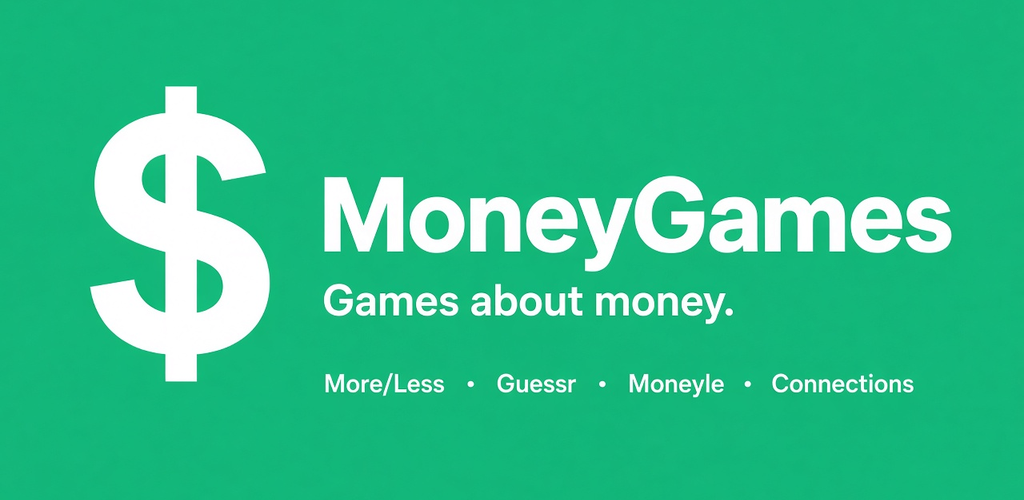
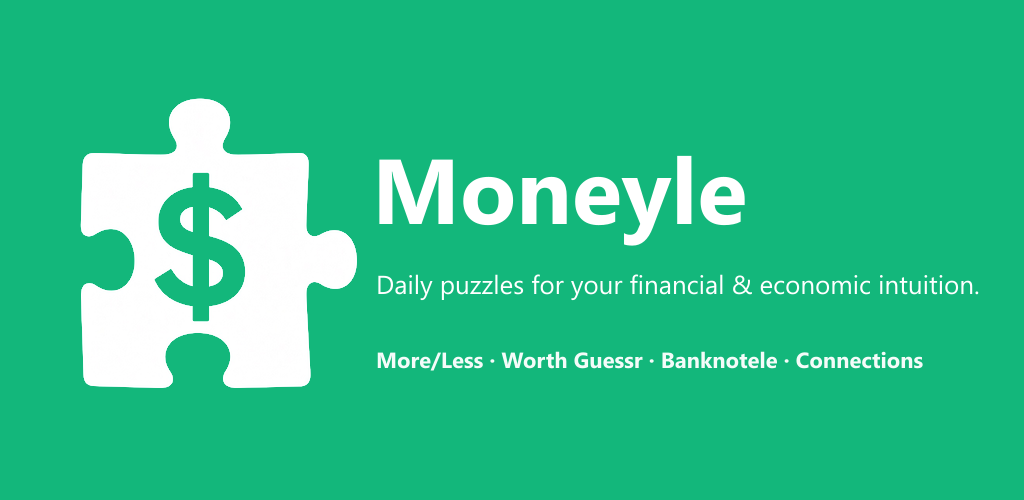
Tighten Worth Guessr scoring and finish the Moneyle rename across the app, legal pages, and Play feature graphic.

Changed region(s): [[0.0625, 0.15, 0.9688, 0.81]]

diff --git a/src/pages/Scoring.tsx b/src/pages/Scoring.tsx
@@ -7,6 +7,7 @@ import {
   GUESSR_EXACT_PCT,
   GUESSR_MAX,
   GUESSR_NEAR_PCT,
+  GUESSR_TIGHT_PCT,
   GUESSR_ROUND_MAX,
   MONEYLE_BONUS_MAX,
   MONEYLE_MAX,
@@ -20,7 +21,7 @@ export default function Scoring() {
     <InfoPage
       title="Scoring rules"
       description="How MoneyGames scores each daily run — More/Less, Worth Guessr, Banknotele, and Connections."
-      updated="September 6, 2026"
+      updated="November 7, 2026"
     >
       <p>
         Each game has its own score. When you finish a run, the results screen shows{" "}
@@ -89,12 +90,16 @@ export default function Scoring() {
               <td>{GUESSR_ROUND_MAX}</td>
             </tr>
             <tr>
-              <td>Within {GUESSR_CLOSE_PCT}% of the real total</td>
+              <td>Within {GUESSR_TIGHT_PCT}% of the real total</td>
               <td>1.5</td>
             </tr>
             <tr>
-              <td>Within {GUESSR_NEAR_PCT}% of the real total</td>
+              <td>Within {GUESSR_CLOSE_PCT}% of the real total</td>
               <td>1</td>
+            </tr>
+            <tr>
+              <td>Within {GUESSR_NEAR_PCT}% of the real total</td>
+              <td>0.5</td>
             </tr>
             <tr>
               <td>More than {GUESSR_NEAR_PCT}% away</td>
@@ -108,11 +113,12 @@ export default function Scoring() {
         </table>
       </div>
       <p>
-        “Within {GUESSR_CLOSE_PCT}%” means the absolute error is at most{" "}
+        “Within {GUESSR_TIGHT_PCT}%” means the absolute error is at most{" "}
+        {GUESSR_TIGHT_PCT}%, “within {GUESSR_CLOSE_PCT}%” means at most{" "}
         {GUESSR_CLOSE_PCT}%, and “within {GUESSR_NEAR_PCT}%” means at most{" "}
-        {GUESSR_NEAR_PCT}%. If the pile is $100, a guess from $90 to $110 scores
-        1.5, and from $80 to $120 scores 1. $100.00 scores {GUESSR_ROUND_MAX}. Over
-        or under is treated the same.
+        {GUESSR_NEAR_PCT}%. If the pile is $100, a guess from $95 to $105 scores
+        1.5, from $90 to $110 scores 1, and from $80 to $120 scores 0.5. $100.00
+        scores {GUESSR_ROUND_MAX}. Over or under is treated the same.
       </p>
 
       <h2>

diff --git a/src/pages/Terms.tsx b/src/pages/Terms.tsx
@@ -6,18 +6,19 @@ export default function Terms() {
   return (
     <InfoPage
       title="Terms of Service"
+      siteName="Moneyle"
       description="Terms of Service for moneyle.app — free browser games about money."
       updated="November 4, 2026"
     >
       <p>
-        These terms govern your use of MoneyGames at moneyle.app and the MoneyGames
+        These terms govern your use of Moneyle at moneyle.app and the Moneyle
         Android app (together, the “service”). By using the service, you agree to them. If
         you do not agree, do not use it.
       </p>
 
       <h2>The service</h2>
       <p>
-        MoneyGames offers free, recreational browser games about money, wealth, and
+        Moneyle offers free, recreational browser games about money, wealth, and
         currencies. Today’s puzzles are free without an account. Register with Google to
         unlock the archive of past daily puzzles and sync your progress across devices. We
         may add, change, or remove games or features at any time.
@@ -36,7 +37,7 @@ export default function Terms() {
       <p>
         Registration is optional and currently only via Google. You are responsible for the
         Google account you use. We may suspend an account that is used to abuse the service.
-        You can delete your MoneyGames account at any time from{" "}
+        You can delete your Moneyle account at any time from{" "}
         <Link to="/delete-account">Delete your account</Link>. That removes the record we
         stored and synced progress; it does not delete your Google account.
       </p>
@@ -52,7 +53,7 @@ export default function Terms() {
 
       <h2>Intellectual property</h2>
       <p>
-        The MoneyGames name, layout, and original game design are provided by the site
+        The Moneyle name, layout, and original game design are provided by the site
         operator. You may play the games and share your results. You may not copy the site
         as a competing product, or reuse our original assets, without permission.
       </p>

diff --git a/index.html b/index.html
@@ -7,14 +7,14 @@
     <title>Moneyle — Daily Financial &amp; Economic Puzzles</title>
     <meta
       name="description"
-      content="Free browser games about money. Play More/Less, Worth Guessr, Banknotele, and Connections — test your intuition for wealth, cash, and currencies."
+      content="Daily puzzle games about money. Play More/Less, Worth Guessr, Banknotele, and Connections — test your intuition for wealth, cash, and currencies."
     />
     <link rel="canonical" href="https://moneyle.app/" />
     <link rel="sitemap" type="application/xml" href="https://moneyle.app/sitemap.xml" />
     <meta property="og:title" content="Moneyle — Daily Financial &amp; Economic Puzzles" />
     <meta
       property="og:description"
-      content="Free browser games about money. Play More/Less, Worth Guessr, Banknotele, and Connections — test your intuition for wealth, cash, and currencies."
+      content="Daily puzzle games about money. Play More/Less, Worth Guessr, Banknotele, and Connections — test your intuition for wealth, cash, and currencies."
     />
     <meta property="og:url" content="https://moneyle.app/" />
     <meta property="og:type" content="website" />
@@ -29,7 +29,7 @@
     <meta name="twitter:image:alt" content="Moneyle — Daily Financial &amp; Economic Puzzles" />
     <meta
       name="twitter:description"
-      content="Free browser games about money. Play More/Less, Worth Guessr, Banknotele, and Connections — test your intuition for wealth, cash, and currencies."
+      content="Daily puzzle games about money. Play More/Less, Worth Guessr, Banknotele, and Connections — test your intuition for wealth, cash, and currencies."
     />
     <link rel="icon" href="/favicon.png" type="image/png" sizes="64x64" />
     <link rel="icon" href="/icon.png" type="image/png" sizes="192x192" />

diff --git a/src/pages/Privacy.tsx b/src/pages/Privacy.tsx
@@ -6,11 +6,12 @@ export default function Privacy() {
   return (
     <InfoPage
       title="Privacy Policy"
-      description="How MoneyGames handles information — optional Google accounts, no ads, no sale of personal data."
+      siteName="Moneyle"
+      description="How Moneyle handles information — optional Google accounts, no ads, no sale of personal data."
       updated="November 4, 2026"
     >
       <p>
-        MoneyGames (“we”) runs free games at moneyle.app. This policy explains what
+        Moneyle (“we”) runs free games at moneyle.app. This policy explains what
         information is involved when you play. We do not sell personal data and we do not
         run advertising.
       </p>
@@ -117,7 +118,7 @@ export default function Privacy() {
 
       <h2>Delete your account</h2>
       <p>
-        You can delete your MoneyGames account at any time from{" "}
+        You can delete your Moneyle account at any time from{" "}
         <Link to="/me">Me</Link> or the{" "}
         <Link to="/delete-account">Delete your account</Link> page, or in the Android app
         under Me. That removes the Google sign-in record we stored and any synced daily

diff --git a/mobile/app/guessr.tsx b/mobile/app/guessr.tsx
@@ -20,7 +20,7 @@ const ROUNDS = 5;
 const MEMORIZE_MS = 5000;
 const STACK_TILT = [-5, -2, 3, 6, -4, 2, 5, -3];
 const HELP =
-  "A pile of bills and coins appears for 5 seconds. Then type the total. Five piles: exact is 2 points, within 10% is 1.5, within 20% is 1. Same puzzle as the website, every Denver day.";
+  "A pile of bills and coins appears for 5 seconds. Then type the total. Five piles: exact is 2 points, within 5% is 1.5, within 10% is 1, within 20% is 0.5. Same puzzle as the website, every Denver day.";
 
 type Phase = "memorize" | "guess" | "reveal";
 
@@ -406,7 +406,7 @@ export default function GuessrScreen() {
         <ScrollView contentContainerStyle={styles.scroll} showsVerticalScrollIndicator={false}>
           <ResultBlock
             score={formatScore(run.score, run.max)}
-            detail={`Exact is 2 pts, within 10% is 1.5, within 20% is 1. Average error ${avgAbs.toFixed(1)}%.`}
+            detail={`Exact is 2 pts, within 5% is 1.5, within 10% is 1, within 20% is 0.5. Average error ${avgAbs.toFixed(1)}%.`}
             current="guessr"
             archiveDate={puzzleDate}
             onShare={() => void Share.share({ message: shareText })}

diff --git a/src/lib/score.ts b/src/lib/score.ts
@@ -3,6 +3,7 @@ export const GUESSR_ROUNDS = 5;
 export const GUESSR_ROUND_MAX = 2;
 export const GUESSR_MAX = GUESSR_ROUNDS * GUESSR_ROUND_MAX;
 export const GUESSR_EXACT_PCT = 0.1;
+export const GUESSR_TIGHT_PCT = 5;
 export const GUESSR_CLOSE_PCT = 10;
 export const GUESSR_NEAR_PCT = 20;
 export const MONEYLE_NOTE_MAX = 10;
@@ -17,13 +18,14 @@ export function morelessScore(correctCount: number, total = MORELESS_MAX): { sco
   return { score: correctCount, max: total };
 }
 
-/** Exact (or off by less than 0.1%) is 2. Within 10% is 1.5. Within 20% is 1. */
+/** Exact (or off by less than 0.1%) is 2. Within 5% is 1.5. Within 10% is 1. Within 20% is 0.5. */
 export function guessrRoundPoints(pct: number, guessCents?: number, actualCents?: number): number {
   if (guessCents != null && actualCents != null && guessCents === actualCents) return GUESSR_ROUND_MAX;
   const abs = Math.abs(pct);
   if (abs < GUESSR_EXACT_PCT) return GUESSR_ROUND_MAX;
-  if (abs <= GUESSR_CLOSE_PCT) return 1.5;
-  if (abs <= GUESSR_NEAR_PCT) return 1;
+  if (abs <= GUESSR_TIGHT_PCT) return 1.5;
+  if (abs <= GUESSR_CLOSE_PCT) return 1;
+  if (abs <= GUESSR_NEAR_PCT) return 0.5;
   return 0;
 }
 

diff --git a/src/lib/articles.ts b/src/lib/articles.ts
@@ -185,7 +185,7 @@ export const ARTICLES: Article[] = [
         paragraphs: [
           "Each day, Worth Guessr picks one currency from the 34 we have photographed — US dollars, Japanese yen, euros, pounds, pesos, dong, and more — and builds five piles from it. Everyone plays the same five piles until midnight Denver time.",
           "The piles get harder as you go. Round one is three banknotes of a single kind, drawn from the cheaper end of that currency’s notes. By round five the table holds eight notes of up to three kinds and eleven coins of up to four kinds: nineteen pieces of cash, five seconds.",
-          "An exact answer is worth 2 points. Within 10% of the true total is worth 1.5, and within 20% is worth 1. Five rounds, ten points at most. You do not have to name every coin — you need a good number.",
+          "An exact answer is worth 2 points. Within 5% of the true total is worth 1.5, within 10% is worth 1, and within 20% is worth 0.5. Five rounds, ten points at most. You do not have to name every coin — you need a good number.",
         ],
       },
       {

diff --git a/src/pages/Changelog.tsx b/src/pages/Changelog.tsx
@@ -2,6 +2,13 @@ import InfoPage from "../components/InfoPage";
 
 const entries = [
   {
+    date: "November 7, 2026",
+    iso: "2026-11-07",
+    items: [
+      "Worth Guessr now scores 1.5 points within 5% of the real total, 1 point within 10%, and 0.5 within 20%. An exact guess still scores 2.",
+    ],
+  },
+  {
     date: "November 2, 2026",
     iso: "2026-11-02",
     items: [
@@ -87,7 +94,7 @@ const entries = [
     iso: "2026-08-23",
     items: [
       "Banknotele How to play now walks through a US $100 example with euro, yen, yuan, and dollar guesses, and explains the rate numbers and closeness percent.",
-      "Footer and About now link to Moneyle on TikTok, X, and YouTube.",
+      "Footer and About now link to Moneyle on X and YouTube.",
       "New More/Less days no longer pair two items that show the same compact figure, such as two movies both listed as $1.24B. Archived days are unchanged.",
     ],
   },

diff --git a/mobile/src/lib/config.ts b/mobile/src/lib/config.ts
@@ -68,6 +68,7 @@ export const GUESSR_ROUNDS = 5;
 export const GUESSR_ROUND_MAX = 2;
 export const GUESSR_MAX = GUESSR_ROUNDS * GUESSR_ROUND_MAX;
 export const GUESSR_EXACT_PCT = 0.1;
+export const GUESSR_TIGHT_PCT = 5;
 export const GUESSR_CLOSE_PCT = 10;
 export const GUESSR_NEAR_PCT = 20;
 export const MONEYLE_NOTE_MAX = 10;
@@ -81,8 +82,9 @@ export function guessrRoundPoints(pct: number, guessCents?: number, actualCents?
   if (guessCents != null && actualCents != null && guessCents === actualCents) return GUESSR_ROUND_MAX;
   const abs = Math.abs(pct);
   if (abs < GUESSR_EXACT_PCT) return GUESSR_ROUND_MAX;
-  if (abs <= GUESSR_CLOSE_PCT) return 1.5;
-  if (abs <= GUESSR_NEAR_PCT) return 1;
+  if (abs <= GUESSR_TIGHT_PCT) return 1.5;
+  if (abs <= GUESSR_CLOSE_PCT) return 1;
+  if (abs <= GUESSR_NEAR_PCT) return 0.5;
   return 0;
 }
 

diff --git a/src/components/HowToPlayGuessr.tsx b/src/components/HowToPlayGuessr.tsx
@@ -35,7 +35,7 @@ export default function HowToPlayGuessr({ onClose }: HowToPlayGuessrProps) {
             <li>It disappears. Type how much you think it was.</li>
             <li>See the actual total and your difference as a +/− percent.</li>
           </ol>
-          <p className="howto-rounds">Five piles, two points each: exact is 2, within 10% is 1.5, within 20% is 1. One run a day, same puzzle for everyone until midnight Denver time. <Link to="/scoring">Scoring rules</Link>.</p>
+          <p className="howto-rounds">Five piles, two points each: exact is 2, within 5% is 1.5, within 10% is 1, within 20% is 0.5. One run a day, same puzzle for everyone until midnight Denver time. <Link to="/scoring">Scoring rules</Link>.</p>
         </div>
       </div>
     </div>

diff --git a/src/components/Icon.tsx b/src/components/Icon.tsx
@@ -48,9 +48,6 @@ const paths: Record<string, ReactElement> = {
       <path fill="#d4a017" d="M2 13h9v9H2v-9zm11 0h9v9h-9v-9z" />
     </>
   ),
-  tiktok: (
-    <path d="M19.59 6.69a4.83 4.83 0 0 1-3.77-4.25V2h-3.45v13.67a2.89 2.89 0 0 1-5.76.14 2.89 2.89 0 0 1 2.88-2.88c.28 0 .54.04.79.1v-3.5a6.34 6.34 0 0 0-6.33 9.87 6.34 6.34 0 0 0 10.67-4.63V8.73a8.2 8.2 0 0 0 4.76 1.51V6.8c-.35 0-.69-.04-1-.11z" />
-  ),
   x: (
     <path d="M14.6 10.24 22.1 2h-1.78l-6.52 7.16L8.6 2H2.4l7.86 10.86L2.4 22h1.78l6.88-7.55L15.4 22h6.2l-7-11.76zm-2.44 2.68-.8-1.08-6.34-8.56h2.73l5.12 6.91.8 1.08 6.66 9h-2.73l-5.44-7.35z" />
   ),

diff --git a/src/lib/pageMeta.ts b/src/lib/pageMeta.ts
@@ -19,7 +19,7 @@ export function ogImageUrl(file: string): string {
 export const HOME_META: PageMeta = {
   title: "Moneyle — Daily Financial & Economic Puzzles",
   description:
-    "Free browser games about money. Play More/Less, Worth Guessr, Banknotele, and Connections — test your intuition for wealth, cash, and currencies.",
+    "Daily puzzle games about money. Play More/Less, Worth Guessr, Banknotele, and Connections — test your intuition for wealth, cash, and currencies.",
   image: ogImageUrl("home.png"),
 };
 
